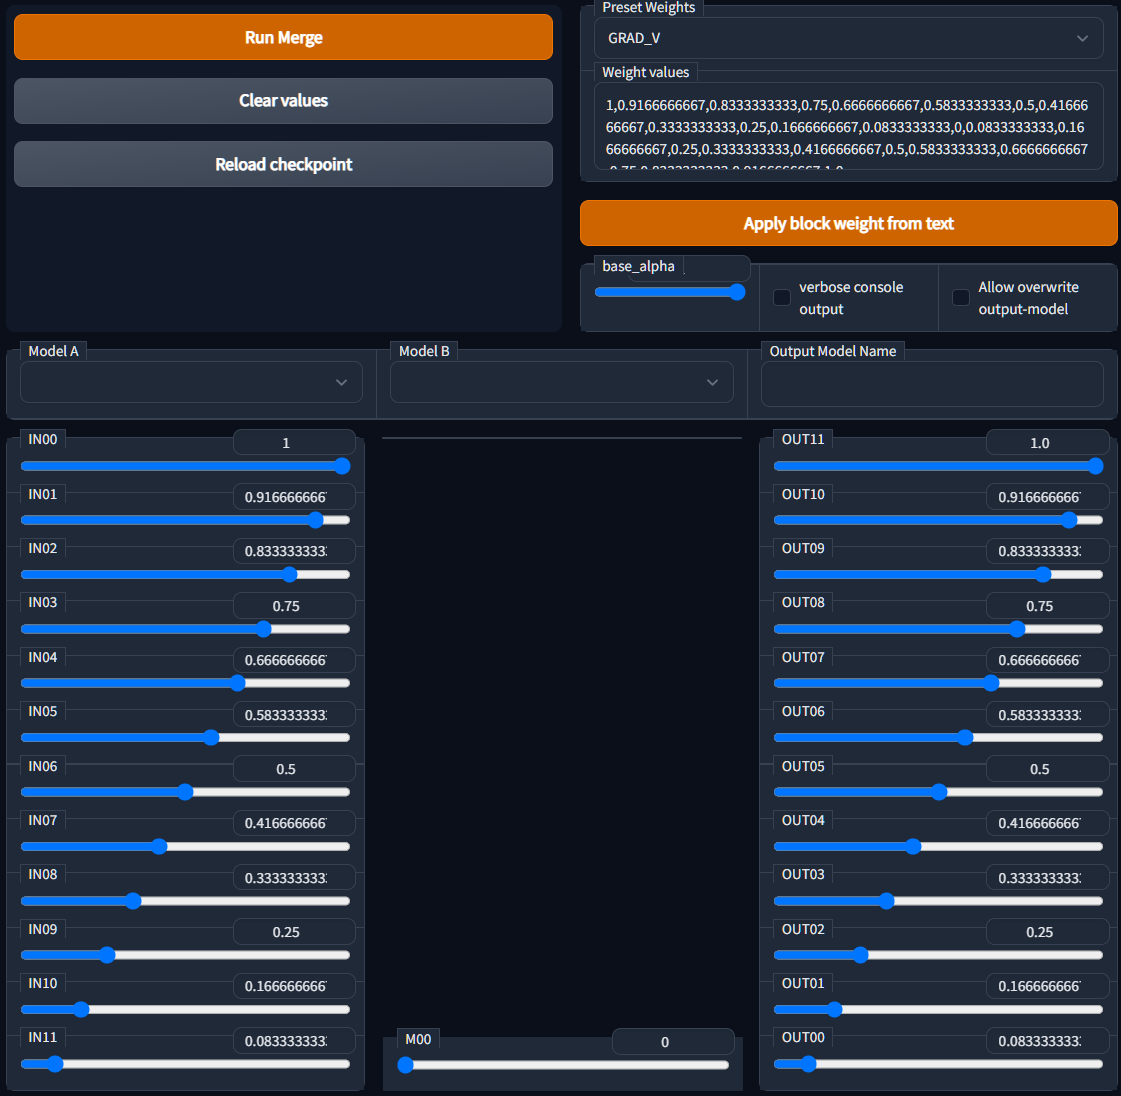
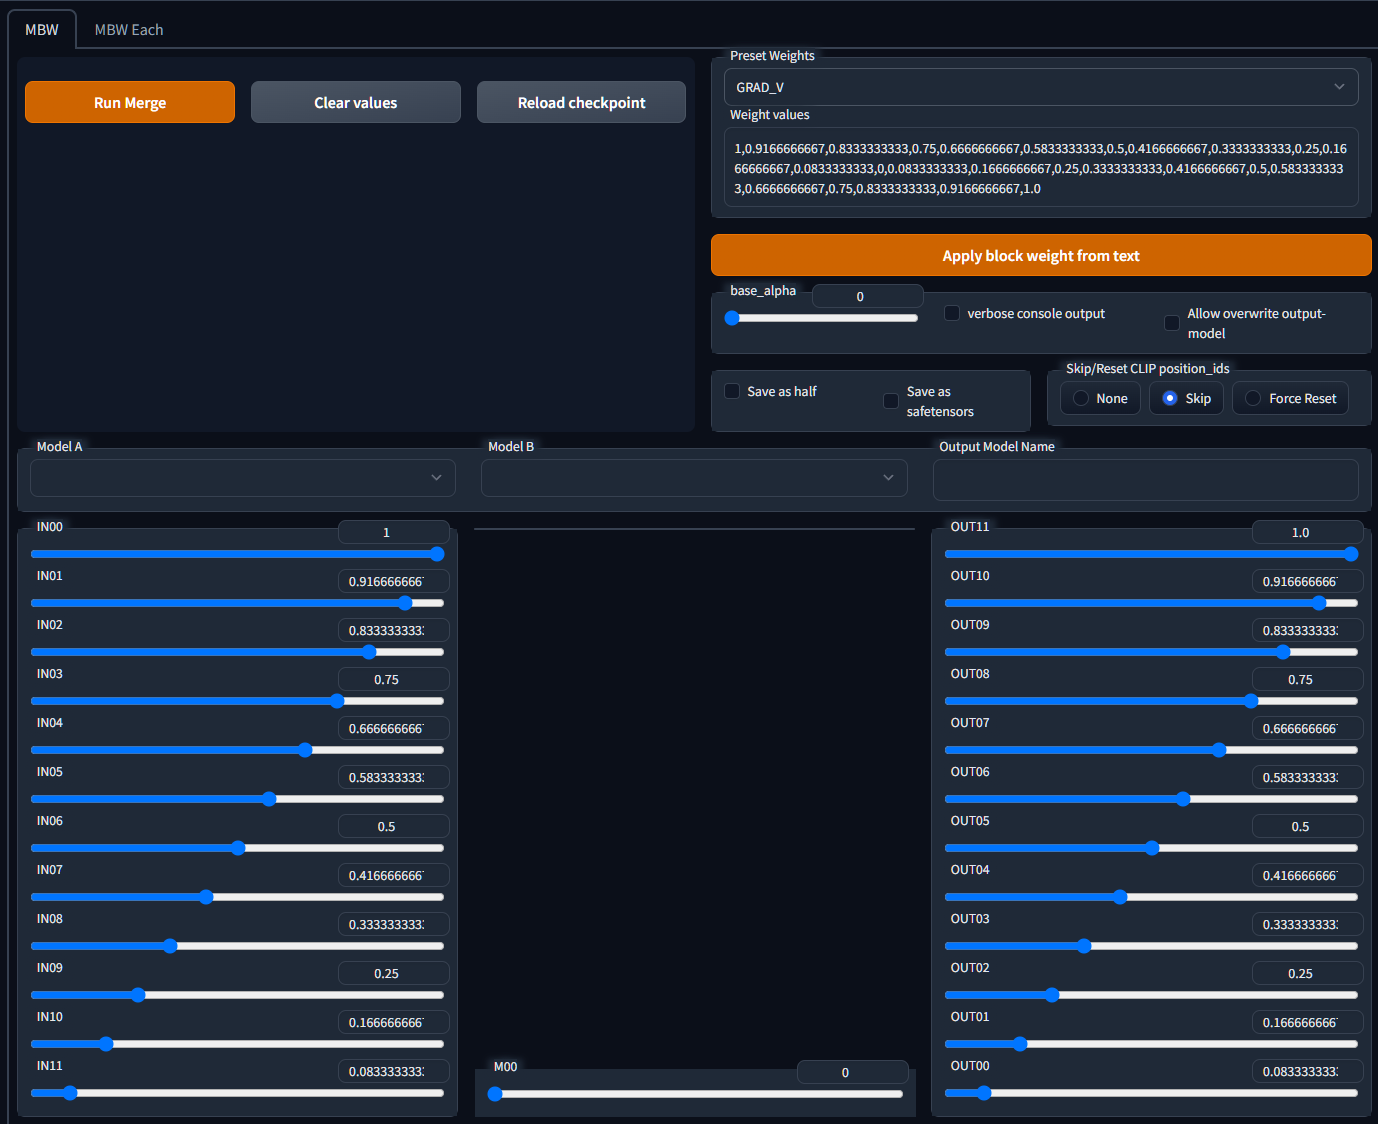
Prepare for release doc: add description about new things on README.md

diff --git a/scripts/mbw_each/ui_mbw_each.py b/scripts/mbw_each/ui_mbw_each.py
@@ -18,12 +18,12 @@ def on_ui_tabs():
         with gr.Row():
             with gr.Column(variant="panel"):
                 with gr.Row():
+                    txt_multi_process_cmd = gr.TextArea(label="Multi Proc Cmd", placeholder="Keep empty if dont use.")
+                html_output_block_weight_info = gr.HTML()
+                with gr.Row():
                     btn_do_merge_block_weighted = gr.Button(value="Run Merge", variant="primary")
                     btn_clear_weighted = gr.Button(value="Clear values")
                     btn_reload_checkpoint_mbw = gr.Button(value="Reload checkpoint")
-                with gr.Row():
-                    txt_multi_process_cmd = gr.TextArea(label="Multi Proc Cmd", placeholder="Keep empty if dont use.")
-                html_output_block_weight_info = gr.HTML()
             with gr.Column():
                 dd_preset_weight = gr.Dropdown(label="Preset_Weights", choices=presetWeights.get_preset_name_list())
                 txt_block_weight = gr.Text(label="Weight_values", placeholder="Put weight sets. float number x 25")
@@ -34,10 +34,11 @@ def on_ui_tabs():
                     chk_allow_overwrite = gr.Checkbox(label="Allow overwrite output-model", value=False)
                 with gr.Row():
                     with gr.Column(scale=3):
-                        chk_save_as_half = gr.Checkbox(label="Save as half", value=False)
-                        chk_save_as_safetensors = gr.Checkbox(label="Save as safetensors", value=False)
+                        with gr.Row():
+                            chk_save_as_half = gr.Checkbox(label="Save as half", value=False)
+                            chk_save_as_safetensors = gr.Checkbox(label="Save as safetensors", value=False)
                     with gr.Column(scale=4):
-                        radio_position_ids = gr.Radio(label="Skip/Reset CLIP position_ids", choices=["None", "Skip", "Force Reset"], value="Skip", type="index")
+                        radio_position_ids = gr.Radio(label="Skip/Reset CLIP position_ids", choices=["None", "Skip", "Force Reset"], value="None", type="index")
         with gr.Row():
             dd_model_A = gr.Dropdown(label="Model_A", choices=sd_models.checkpoint_tiles())
             dd_model_B = gr.Dropdown(label="Model_B", choices=sd_models.checkpoint_tiles())

diff --git a/scripts/mbw/ui_mbw.py b/scripts/mbw/ui_mbw.py
@@ -17,11 +17,11 @@ def on_ui_tabs():
     with gr.Column():
         with gr.Row():
             with gr.Column(variant="panel"):
+                html_output_block_weight_info = gr.HTML()
                 with gr.Row():
                     btn_do_merge_block_weighted = gr.Button(value="Run Merge", variant="primary")
                     btn_clear_weight = gr.Button(value="Clear values")
                     btn_reload_checkpoint_mbw = gr.Button(value="Reload checkpoint")
-                html_output_block_weight_info = gr.HTML()
             with gr.Column():
                 dd_preset_weight = gr.Dropdown(label="Preset Weights", choices=presetWeights.get_preset_name_list())
                 txt_block_weight = gr.Text(label="Weight values", placeholder="Put weight sets. float number x 25")
@@ -32,10 +32,11 @@ def on_ui_tabs():
                     chk_allow_overwrite = gr.Checkbox(label="Allow overwrite output-model", value=False)
                 with gr.Row():
                     with gr.Column(scale=3):
-                        chk_save_as_half = gr.Checkbox(label="Save as half", value=False)
-                        chk_save_as_safetensors = gr.Checkbox(label="Save as safetensors", value=False)
+                        with gr.Row():
+                            chk_save_as_half = gr.Checkbox(label="Save as half", value=False)
+                            chk_save_as_safetensors = gr.Checkbox(label="Save as safetensors", value=False)
                     with gr.Column(scale=4):
-                        radio_position_ids = gr.Radio(label="Skip/Reset CLIP position_ids", choices=["None", "Skip", "Force Reset"], value="Skip", type="index")
+                        radio_position_ids = gr.Radio(label="Skip/Reset CLIP position_ids", choices=["None", "Skip", "Force Reset"], value="None", type="index")
         with gr.Row():
             model_A = gr.Dropdown(label="Model A", choices=sd_models.checkpoint_tiles())
             model_B = gr.Dropdown(label="Model B", choices=sd_models.checkpoint_tiles())

diff --git a/README.md b/README.md
@@ -4,12 +4,14 @@
 - Implementation GUI of [Merge Block Weighted] (https://note.com/kohya_ss/n/n9a485a066d5b) idea by kohya_ss
    - change some part of script to adjust for AUTO1111, basic method is not changed.
 
-
-
 # Recent Update
 
+- 2023/01/12: Add some function
+  - Save as half
+  - Save as safetensors
+  - Select of "Skip/Reset CKIP `position_ids`"
+
 - 2022/12/25: Add new feature and new UI
-  
    - Read "README" [English](README_each.md)/[日本語](README_each.ja.md)
 
 # 
@@ -21,22 +23,31 @@
 ## Table of contents
 
 <!--ts-->
-   * [How to Install](#how-to-install)
-   * [How to use](#how-to-use)
-      * [Select `model_A` and `model_B`, and input `Output model name`](#select-model_a-and-model_b-and-input-output-model-name)
-      * [Set merge ratio for each block of U-Net](#set-merge-ratio-for-each-block-of-u-net)
-      * [Setting values](#setting-values)
-      * [Other settings](other-settings)
-   * [Other function](#other-function)
-      * [Save Merge Log](#save-merge-log)
-   * [Sample/Example](#sampleexample)
-      * [result (x/y)](#result-xy)
-      * [後述1: weight1](#%E5%BE%8C%E8%BF%B01-weight1)
-      * [後述2: weight2](#%E5%BE%8C%E8%BF%B02-weight2)
-      * [Preset's grids](#presets-grids)
-         * [Examples of Sigmoid-like Functions](#examples-of-sigmoid-like-functions)
-   * [Special Thanks](#special-thanks)
-<!--te-->
+
+* [How to Install](#how-to-install)
+
+* [How to use](#how-to-use)
+  
+   * [Select `model_A` and `model_B`, and input `Output model name`](#select-model_a-and-model_b-and-input-output-model-name)
+   * [Set merge ratio for each block of U-Net](#set-merge-ratio-for-each-block-of-u-net)
+   * [Setting values](#setting-values)
+   * [Other settings](other-settings)
+
+* [Other function](#other-function)
+  
+   * [Save Merge Log](#save-merge-log)
+
+* [Sample/Example](#sampleexample)
+  
+   * [result (x/y)](#result-xy)
+   * [後述1: weight1](#%E5%BE%8C%E8%BF%B01-weight1)
+   * [後述2: weight2](#%E5%BE%8C%E8%BF%B02-weight2)
+   * [Preset's grids](#presets-grids)
+      * [Examples of Sigmoid-like Functions](#examples-of-sigmoid-like-functions)
+
+* [Special Thanks](#special-thanks)
+  
+  <!--te-->
 
 ## How to Install
 
@@ -78,9 +89,11 @@
   
    - Weights must have 25 values and comma separated
 
-### Setting values
+## Setting values
 
 ![](misc/bw05.png)
+
+### base_alpha
 
 - set "base_alpha"
 
@@ -97,6 +110,27 @@
 | Allow overwrite output-model | Check true, if allow overwrite model file which has same name. |
 
 - Merged output is saved in normal "Model" folder.
+
+### Save as half / safetensors
+
+![](misc/bw09.png)
+
+- Settings about save
+  
+   - "Save as half" mean float16
+  
+   - "Save as safetensors". If you set your output file ext as `.safetensors`, automaticaly saved as safetensors with/without this setting.
+
+### Skip/Reset CKIP `position_ids`key value
+
+![](misc/bw10.png)
+
+- In this function, you can select treatment of `position_ids` value in CLIP.
+- Values in this key controls matching of your prompt and embeddings.
+- I've try to found the cause of 'Some model ignore No.1 token(word)' problem, and write some report about that. (https://note.com/bbcmc/n/n12c05bf109cc)
+- Arenatemp already have spectation of inside of models, and published Extension to fix this CLIP key problem. See also,
+   - [stable-diffusion-webui-model-toolkit](https://github.com/arenatemp/stable-diffusion-webui-model-toolkit)
+- MBW is also affected by this problem, because some model may (potensialy) have this issue, and causes/transfer some trouble to merged result model.
 
 ## Other function
 
